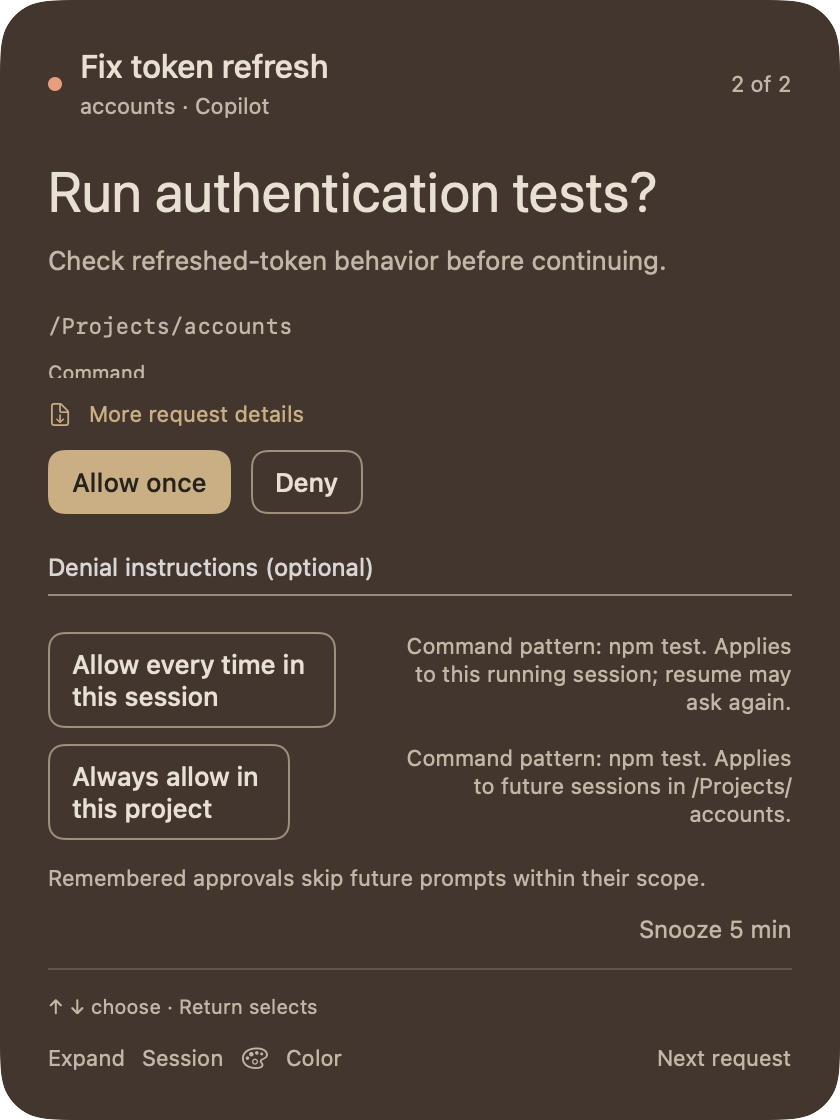
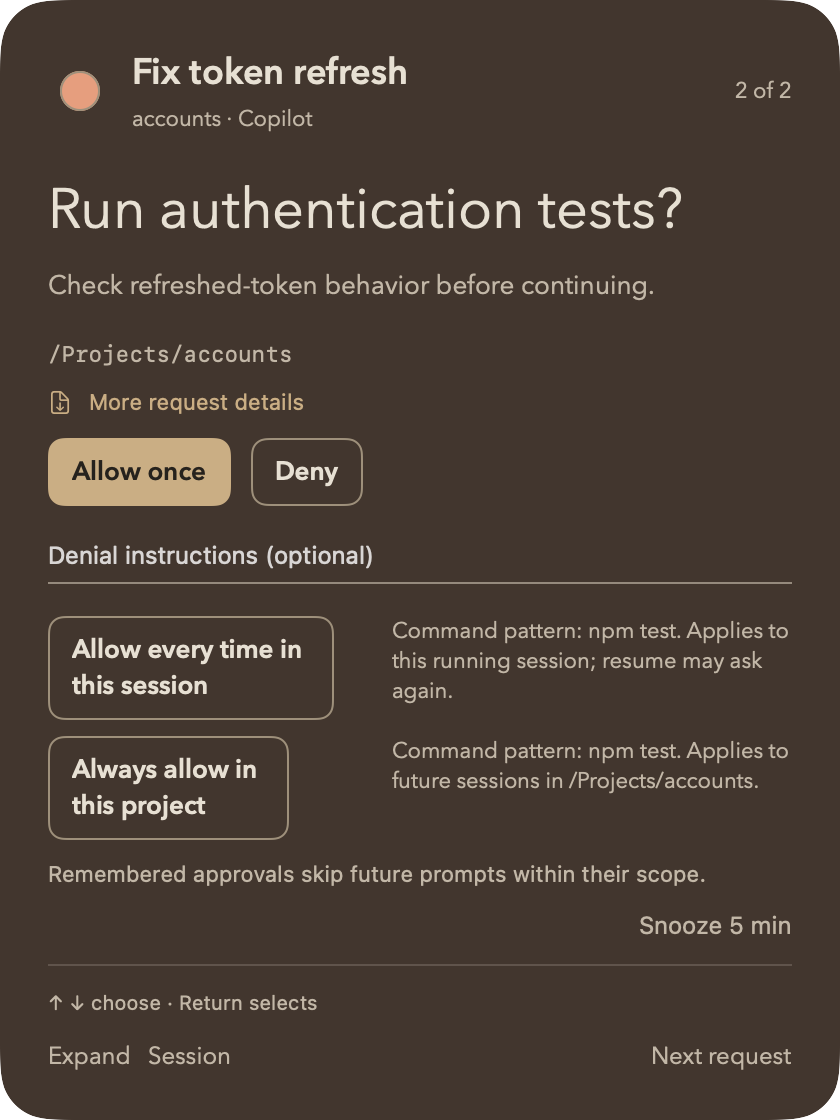
Polish floating notifications and add System Light Dark appearance

diff --git a/Sources/NotifyApp/Views.swift b/Sources/NotifyApp/Views.swift
@@ -304,11 +304,11 @@ struct RequestEditor: View {
     }
     private func heading(_ reasons: [ContextField]) -> some View {
         VStack(alignment: .leading, spacing: 10) {
-            Text(.init(request.title)).font(floating ? .system(size: 28, weight: .regular) : WorkspaceType.text(26))
+            Text(.init(request.title)).font(WorkspaceType.text(floating ? 28 : 26))
                 .fixedSize(horizontal: false, vertical: true).textSelection(.enabled)
                 .frame(maxWidth: .infinity, alignment: .leading)
             ForEach(reasons) { reason in
-                Text(reason.value).font(.system(size: 13)).foregroundStyle(secondary)
+                Text(reason.value).font(WorkspaceType.text(13)).foregroundStyle(secondary)
                     .fixedSize(horizontal: false, vertical: true).textSelection(.enabled)
             }
         }
@@ -336,7 +336,7 @@ struct RequestEditor: View {
         }
     }
     private var approvalActions: some View {
-        VStack(alignment: .leading, spacing: 12) {
+        VStack(alignment: .leading, spacing: floating ? 10 : 12) {
             if request.kind == "permission" {
                 HStack(spacing: 10) {
                     Button("Allow once") { store.reply(session: session.id, request: request, decision: "allow") }
@@ -389,10 +389,10 @@ struct RequestEditor: View {
                 .keyboardShortcut(shortcut(for: .scope(option.id))).id(ReplyChoice.scope(option.id))
                 .frame(maxWidth: floating ? 160 : nil, alignment: .leading)
                 .help(option.label)
-            Text(option.detail).font(.system(size: 11)).foregroundStyle(secondary)
+            Text(option.detail).font(WorkspaceType.text(11)).foregroundStyle(secondary)
                 .fixedSize(horizontal: false, vertical: true).textSelection(.enabled)
-                .multilineTextAlignment(floating ? .trailing : .leading)
-                .frame(maxWidth: .infinity, alignment: floating ? .trailing : .leading)
+                .multilineTextAlignment(.leading)
+                .frame(maxWidth: .infinity, alignment: .leading)
         }.frame(maxWidth: .infinity, alignment: .leading)
     }
     private func questionField(_ question: AgentQuestion) -> some View {
@@ -449,7 +449,7 @@ struct ReplyButtonStyle: ButtonStyle {
     @Environment(\.isEnabled) private var enabled
     func makeBody(configuration: Configuration) -> some View {
         let filled = highlighted ?? primary
-        configuration.label.font(.system(size: 13, weight: .medium))
+        configuration.label.font(WorkspaceType.text(13, strong: true))
             .fixedSize(horizontal: false, vertical: true)
             .padding(.horizontal, 12).padding(.vertical, 8)
             .foregroundStyle(filled ? Palette.highlightInk : Palette.ink)
@@ -462,20 +462,38 @@ struct ReplyButtonStyle: ButtonStyle {
 struct FloatingView: View {
     @ObservedObject var store: Store
     let openCenter: () -> Void
+    @State private var colorHovered = false
     var body: some View {
         VStack(alignment: .leading, spacing: 12) {
             if let id = store.steeringSessionID {
                 FloatingSteeringView(store: store, sessionID: id, openCenter: openCenter)
             } else if let item = store.activeFloatingRequest {
                 let index = store.floatingRequests.firstIndex { $0.request.id == store.replyWorkspace.floatingID } ?? 0
-                HStack(spacing: 9) {
-                    Circle().fill(floatingColor).frame(width: 7, height: 7)
+                HStack(spacing: 10) {
+                    Button {
+                        store.floatingColorPickerSessionID = item.session.id
+                    } label: {
+                        Circle().fill(floatingColor)
+                            .overlay(Circle().strokeBorder(Palette.line, lineWidth: 1))
+                            .frame(width: 20, height: 20).padding(6)
+                            .background(colorHovered ? Palette.raised : .clear, in: Circle())
+                            .contentShape(Circle())
+                    }.buttonStyle(.plain)
+                        .onHover { colorHovered = $0 }
+                        .accessibilityLabel("Change session color")
+                        .help("Change color for \(item.session.name)")
+                        .popover(isPresented: Binding(
+                            get: { store.floatingColorPickerSessionID == item.session.id },
+                            set: { if !$0 { store.floatingColorPickerSessionID = nil } }
+                        )) {
+                            SessionColorChoices(store: store, sessionID: item.session.id)
+                        }
                     VStack(alignment: .leading, spacing: 3) {
-                        Text(item.session.name).font(.system(size: 16, weight: .medium)).lineLimit(2).help(item.session.name)
-                        Text("\(item.session.projectLabel) · \(agentName(item.session.agent))").font(.system(size: 11)).foregroundStyle(Palette.noticeMuted)
+                        Text(item.session.name).font(WorkspaceType.text(18, strong: true)).lineLimit(2).help(item.session.name)
+                        Text("\(item.session.projectLabel) · \(agentName(item.session.agent))").font(WorkspaceType.text(11)).foregroundStyle(Palette.noticeMuted)
                     }
                     Spacer()
-                    Text("\(min(index + 1, store.floatingRequests.count)) of \(store.floatingRequests.count)").font(.system(size: 11)).foregroundStyle(Palette.noticeMuted)
+                    Text("\(min(index + 1, store.floatingRequests.count)) of \(store.floatingRequests.count)").font(WorkspaceType.text(11)).foregroundStyle(Palette.noticeMuted)
                 }
                 .padding(.bottom, 7)
                 if store.automation.enabled.contains(item.session.id) { AutoYesWarning() }
@@ -489,22 +507,11 @@ struct FloatingView: View {
                         Button("Open in iTerm2") { store.openTerminal(item.session) }.disabled(item.session.ownerPID == nil)
                         Button("Steer") { store.showSteering(item.session.id) }.disabled(!item.session.canSteer)
                     }
-                    Button {
-                        store.floatingColorPickerSessionID = item.session.id
-                    } label: {
-                        Label("Color", systemImage: "paintpalette")
-                    }
-                    .popover(isPresented: Binding(
-                        get: { store.floatingColorPickerSessionID == item.session.id },
-                        set: { if !$0 { store.floatingColorPickerSessionID = nil } }
-                    )) {
-                        SessionColorChoices(store: store, sessionID: item.session.id)
-                    }
                     Spacer()
                     if store.floatingRequests.count > 1 {
                         Button("Next request") { store.replyWorkspace.next(requestIDs: store.floatingRequests.map { $0.request.id }) }
                     }
-                }.buttonStyle(.plain).font(.system(size: 11)).foregroundStyle(Palette.noticeMuted)
+                }.buttonStyle(.plain).font(WorkspaceType.text(12)).foregroundStyle(Palette.noticeMuted)
             }
         }.padding(24).background(floatingSurface).clipShape(RoundedRectangle(cornerRadius: 26))
             .foregroundStyle(Palette.ink).tint(Palette.accent)
@@ -527,6 +534,19 @@ struct SettingsView: View {
     var body: some View {
         VStack(alignment: .leading, spacing: 20) {
             HStack { Text("Settings").font(.system(size: 23, weight: .semibold)); Spacer(); Button("Done") { store.settingsVisible = false } }
+            ScrollView {
+            VStack(alignment: .leading, spacing: 20) {
+            VStack(alignment: .leading, spacing: 8) {
+                Text("Appearance").font(WorkspaceType.text(14, strong: true))
+                Picker("Appearance", selection: $store.appearanceMode) {
+                    ForEach(AppearanceMode.allCases, id: \.self) { mode in
+                        Text(mode.rawValue.capitalized).tag(mode)
+                    }
+                }.pickerStyle(.segmented).labelsHidden()
+                Text("Only changes Notify. System follows your Mac's appearance.")
+                    .font(.system(size: 11)).foregroundStyle(Palette.muted)
+            }
+            Divider()
             Toggle("Safe auto-yes", isOn: $store.autoYes)
             Text("Only explicitly identified reads of source or documentation files inside the current project qualify. Hidden paths, sensitive names, symlink escapes, commands, writes, and questions stay manual. Existing agent permission rules still apply.")
                 .font(.system(size: 12)).foregroundStyle(Palette.muted).lineSpacing(4)
@@ -550,6 +570,10 @@ struct SettingsView: View {
             Text("History contains session labels and decisions, not answers. Conversation previews stay on this Mac unless you explicitly request an AI description; that sends a limited excerpt through your Copilot account.")
                 .font(.system(size: 10)).foregroundStyle(Palette.muted)
             Button("Remove disconnected sessions") { store.clearDisconnected() }
-        }.padding(28).frame(width: 550).background(Palette.background).foregroundStyle(Palette.ink).tint(Palette.accent)
+            }.frame(maxWidth: .infinity, alignment: .leading)
+            }.scrollIndicators(.visible)
+        }.padding(28)
+            .frame(width: 550, height: min(680, (NSScreen.main?.visibleFrame.height ?? 760) - 80))
+            .background(Palette.background).foregroundStyle(Palette.ink).tint(Palette.accent)
     }
 }

diff --git a/Sources/NotifyApp/WorkspaceView.swift b/Sources/NotifyApp/WorkspaceView.swift
@@ -33,21 +33,33 @@ struct SessionColorPicker: View {
 struct SessionColorChoices: View {
     @ObservedObject var store: Store
     let sessionID: String
+    @State private var colors: [UInt32]
+    @State private var hoveredColor: UInt32?
     private static let names: [UInt32: String] = [
         0xA6C8FF: "Sky", 0xD8AFF5: "Lilac", 0x70D6C4: "Mint", 0xEAAFBC: "Rose",
         0xC1D58D: "Sage", 0xE5BF8C: "Sand", 0xA9B6EF: "Periwinkle", 0x8ACBDF: "Aqua",
         0xF29A78: "Terracotta", 0xB9B0A3: "Stone"
     ]
+    init(store: Store, sessionID: String) {
+        self.store = store
+        self.sessionID = sessionID
+        _colors = State(initialValue: store.registry.sessions[sessionID].map {
+            store.appearance.suggestedColors(for: $0, among: store.sessions)
+        } ?? [])
+    }
     var body: some View {
         VStack(alignment: .leading, spacing: 14) {
-            Text("Session color").font(WorkspaceType.text(19, strong: true))
+            HStack {
+                Text("Session color").font(WorkspaceType.text(19, strong: true))
+                Spacer()
+                Button("Done") { store.floatingColorPickerSessionID = nil }
+                    .keyboardShortcut(.cancelAction).buttonStyle(.plain)
+                    .font(WorkspaceType.text(12)).foregroundStyle(Palette.accent)
+            }
             if let session = store.registry.sessions[sessionID] {
-                let colors = store.appearance.suggestedColors(for: session, among: store.sessions)
                 let current = store.appearance.color(for: session)
-                Text(session.name).font(.system(size: 12)).lineLimit(2)
-                Text("Least-used colors first, across connected sessions.")
-                    .font(.system(size: 11)).foregroundStyle(Palette.muted)
-                LazyVGrid(columns: Array(repeating: GridItem(.fixed(34), spacing: 12), count: 5), spacing: 12) {
+                Text(session.name).font(WorkspaceType.text(12)).foregroundStyle(Palette.muted).lineLimit(2)
+                LazyVGrid(columns: Array(repeating: GridItem(.fixed(40), spacing: 10), count: 5), spacing: 10) {
                     ForEach(colors, id: \.self) { color in
                         Button { store.setColor(color, for: session) } label: {
                             Circle()
@@ -55,23 +67,33 @@ struct SessionColorChoices: View {
                                             green: Double((color >> 8) & 255) / 255,
                                             blue: Double(color & 255) / 255))
                                 .overlay(Circle().strokeBorder(Palette.line, lineWidth: 1))
-                                .overlay {
-                                    if current == color {
-                                        Image(systemName: "checkmark").font(.system(size: 14, weight: .bold)).foregroundStyle(.black)
-                                    }
-                                }.frame(width: 34, height: 34)
+                                .frame(width: 30, height: 30).padding(5)
+                                .overlay(Circle().strokeBorder(current == color ? Palette.accent :
+                                                                hoveredColor == color ? Palette.line : .clear,
+                                                              lineWidth: current == color ? 2 : 1))
+                                .contentShape(Circle())
                         }.buttonStyle(.plain)
+                            .onHover { hoveredColor = $0 ? color : nil }
                             .accessibilityLabel(Self.names[color] ?? String(format: "#%06X", color))
                             .accessibilityAddTraits(current == color ? .isSelected : [])
                             .help(Self.names[color] ?? String(format: "#%06X", color))
                     }
                 }
-                Button("Next least-used color") {
-                    guard let next = colors.first(where: { $0 != current }) else {
-                        store.error = "No alternative session color is available."
-                        return
+                HStack {
+                    Text(Self.names[current] ?? String(format: "#%06X", current))
+                        .font(WorkspaceType.text(13, strong: true))
+                    Spacer()
+                    Button {
+                        guard let next = store.appearance.suggestedColors(for: session, among: store.sessions).first(where: { $0 != current }) else {
+                            store.error = "No alternative session color is available."
+                            return
+                        }
+                        store.setColor(next, for: session)
+                    } label: {
+                        Label("Next color", systemImage: "arrow.triangle.2.circlepath")
                     }
-                    store.setColor(next, for: session)
+                    .buttonStyle(.plain).font(WorkspaceType.text(12)).foregroundStyle(Palette.accent)
+                    .help("Choose the next least-used color across connected sessions")
                 }
                 if let error = store.error {
                     Text(error).font(.system(size: 11)).foregroundStyle(Palette.error)
@@ -80,14 +102,20 @@ struct SessionColorChoices: View {
                 Divider()
                 HStack {
                     Button("Reset automatic") { store.setColor(nil, for: session) }
+                        .buttonStyle(.plain).font(WorkspaceType.text(12)).foregroundStyle(Palette.accent)
                     Spacer()
-                    Button("Done") { store.floatingColorPickerSessionID = nil }.keyboardShortcut(.cancelAction)
+                    Text("Least-used first").font(WorkspaceType.text(11)).foregroundStyle(Palette.muted)
                 }
             } else {
                 Text("This session is no longer available.").foregroundStyle(Palette.muted)
             }
         }.padding(20).frame(width: 280).background(Palette.surface)
             .foregroundStyle(Palette.ink).tint(Palette.accent)
+            .onAppear {
+                if let session = store.registry.sessions[sessionID] {
+                    colors = store.appearance.suggestedColors(for: session, among: store.sessions)
+                }
+            }
     }
 }
 

diff --git a/Tests/UI/main.swift b/Tests/UI/main.swift
@@ -16,6 +16,7 @@ import Vision
         try FileManager.default.createDirectory(at: fixtureRoot, withIntermediateDirectories: true, attributes: [.posixPermissions: 0o700])
         let suite = "notify-ui-" + UUID().uuidString
         let defaults = UserDefaults(suiteName: suite)!
+        defaults.set("dark", forKey: "appearanceMode")
         let store = Store(directory: fixtureRoot, defaults: defaults)
         precondition(reorderedSessionIDs(["a", "b", "c"], moving: "a", over: "c") == ["b", "c", "a"],
                      "Dragging down must place a session at the target position")
@@ -460,6 +461,7 @@ import Vision
             visual.setColor(0xF29A78, for: visual.selected!)
             func capture<V: View>(_ view: V, width: CGFloat, height: CGFloat, name: String,
                                   appearance: NSAppearance.Name = .aqua) throws {
+                if name.hasPrefix("settings") { visual.appearanceMode = appearance == .darkAqua ? .dark : .light }
                 let capture = NSHostingView(rootView: view)
                 capture.sizingOptions = []
                 window.appearance = NSAppearance(named: appearance)
@@ -662,6 +664,7 @@ import Vision
         }
         let appDelegate = AppDelegate(store: store, backgroundLaunch: true)
         appDelegate.applicationDidFinishLaunching(Notification(name: NSApplication.didFinishLaunchingNotification))
+        precondition(NSApp.appearance?.name == .darkAqua, "A saved Dark preference must apply before Notify presents its windows")
         let center = NSApp.windows.first { $0.title == "Notify" }!
         precondition(!center.isVisible, "Launcher startup must not open the control center")
         defer { appDelegate.applicationWillTerminate(Notification(name: NSApplication.willTerminateNotification)) }
@@ -830,9 +833,9 @@ import Vision
         precondition(store.centerVisible == (center.isVisible && center.occlusionState.contains(.visible)),
                      "Reopening must synchronize the illustration clock with the window's current occlusion state")
         precondition(center.appearance == nil && replyPanel.appearance == nil,
-                     "Both app windows must inherit macOS appearance instead of forcing light mode")
-        for appearance: NSAppearance.Name in [.darkAqua, .aqua] {
-            NSApp.appearance = NSAppearance(named: appearance)
+                     "Both windows must inherit Notify's app-wide appearance instead of pinning their own theme")
+        for (mode, appearance): (AppearanceMode, NSAppearance.Name) in [(.dark, .darkAqua), (.light, .aqua)] {
+            store.appearanceMode = mode
             for _ in 0..<10 {
                 center.contentView?.layoutSubtreeIfNeeded()
                 RunLoop.current.run(until: Date().addingTimeInterval(0.025))
@@ -840,7 +843,10 @@ import Vision
             }
             precondition(center.effectiveAppearance.bestMatch(from: [.aqua, .darkAqua]) == appearance &&
                          replyPanel.effectiveAppearance.bestMatch(from: [.aqua, .darkAqua]) == appearance,
-                         "Already-open windows must follow appearance changes without relaunching")
+                         "Already-open windows must follow the user's Notify appearance choice without relaunching")
+            let reopened = Store(directory: fixtureRoot, defaults: defaults)
+            precondition(reopened.appearanceMode == mode, "The user's appearance choice must survive reopening")
+            reopened.stop()
             let view = center.contentView!
             let bitmap = view.bitmapImageRepForCachingDisplay(in: view.bounds)!
             view.cacheDisplay(in: view.bounds, to: bitmap)
@@ -848,6 +854,15 @@ import Vision
             precondition(appearance == .darkAqua ? luminance(background) < 0.15 : luminance(background) > 0.6,
                          "Existing SwiftUI content must repaint after a system appearance change")
         }
+        store.appearanceMode = .system
+        precondition(NSApp.appearance == nil, "System must remove only Notify's appearance override")
+        for _ in 0..<10 {
+            RunLoop.current.run(until: Date().addingTimeInterval(0.025))
+            pumpNativeEvents()
+        }
+        precondition(center.effectiveAppearance.bestMatch(from: [.aqua, .darkAqua]) ==
+                     NSApp.effectiveAppearance.bestMatch(from: [.aqua, .darkAqua]),
+                     "Returning to System must follow the current Mac appearance")
         for ownedWindow in NSApp.windows { ownedWindow.orderOut(nil) }
         print("Native notification color, Dock badge and reopen checks passed")
         if CommandLine.arguments.contains("--live-discovery") {

diff --git a/Sources/NotifyApp/Store.swift b/Sources/NotifyApp/Store.swift
@@ -16,6 +16,10 @@ struct AnswerFocus: Equatable {
     let questionID: String
 }
 
+enum AppearanceMode: String, CaseIterable {
+    case system, light, dark
+}
+
 final class Store: ObservableObject {
     @Published private(set) var registry = SessionRegistry()
     @Published var selectedID: String?
@@ -31,6 +35,9 @@ final class Store: ObservableObject {
     private var announcedIDs: [String] = []
     private var replyAttempts: [String: UUID] = [:]
     @Published var settingsVisible = false
+    @Published var appearanceMode: AppearanceMode {
+        didSet { defaults.set(appearanceMode.rawValue, forKey: "appearanceMode") }
+    }
     @Published var centerVisible = false
     @Published var floatingColorPickerSessionID: String? {
         didSet { onAttentionChange?() }
@@ -73,6 +80,8 @@ final class Store: ObservableObject {
 
     init(directory: URL? = nil, defaults: UserDefaults = .standard) {
         self.defaults = defaults
+        let savedAppearance = defaults.string(forKey: "appearanceMode")
+        appearanceMode = savedAppearance.flatMap(AppearanceMode.init(rawValue:)) ?? .system
         sessionOrder = defaults.stringArray(forKey: "sessionOrder") ?? []
         defaults.register(defaults: ["autoYes": true, "floatingEnabled": true, "playSound": false])
         autoYes = defaults.bool(forKey: "autoYes")
@@ -80,6 +89,9 @@ final class Store: ObservableObject {
         playSound = defaults.bool(forKey: "playSound")
         self.directory = directory ?? FileManager.default.homeDirectoryForCurrentUser.appendingPathComponent("Library/Application Support/Notify")
         server = LocalServer(directory: self.directory)
+        if let savedAppearance, AppearanceMode(rawValue: savedAppearance) == nil {
+            error = "The saved appearance setting is not recognized. Notify is following the system; choose an appearance in Settings to reset it."
+        }
         do { appearance = try SessionAppearance.load(from: self.directory) }
         catch { self.error = "Session colors could not be loaded: \(error.localizedDescription)" }
         do { descriptions = try DescriptionCache.load(from: self.directory) }

diff --git a/Sources/NotifyApp/AppDelegate.swift b/Sources/NotifyApp/AppDelegate.swift
@@ -121,6 +121,13 @@ final class AppDelegate: NSObject, NSApplicationDelegate, NSWindowDelegate {
     }
 
     func applicationDidFinishLaunching(_ notification: Notification) {
+        store.$appearanceMode.sink { mode in
+            switch mode {
+            case .system: NSApp.appearance = nil
+            case .light: NSApp.appearance = NSAppearance(named: .aqua)
+            case .dark: NSApp.appearance = NSAppearance(named: .darkAqua)
+            }
+        }.store(in: &observations)
         let mainMenu = NSMenu()
         let appItem = NSMenuItem()
         let appMenu = NSMenu()

diff --git a/docs/guide.md b/docs/guide.md
@@ -10,7 +10,7 @@ Notify appears in the Dock and Cmd-Tab. Agent launchers start it in the backgrou
 
 ## Session workspace and useful notifications
 
-Notify follows macOS appearance automatically, including changes while it's running: muted beige and taupe in light mode, warm charcoal and sand in dark mode. Each chat has a stable color shared by its session row and floating notification. Change it using **Session color** in the session's **Settings** tab; **Reset** restores the automatic accent. Notifications use a subtle session tint with contrasting text in both modes. Colors are stored locally and follow the saved chat when it reconnects or resumes. Warning/error colors remain separate.
+In Notify's main **Settings**, choose **Appearance: System, Light, or Dark**. System is the default and follows macOS; Light and Dark apply only to Notify, update open windows immediately, and are remembered after restart. Light uses muted beige and taupe; dark uses warm charcoal and sand. Each chat has a stable color shared by its session row and floating notification. Change it using **Session color** in the session's **Settings** tab; **Reset** restores the automatic accent. Notifications use a subtle session tint with contrasting text in both modes. Colors are stored locally and follow the saved chat when it reconnects or resumes. Warning/error colors remain separate.
 
 The illustrated agent reflects observed state: working, thinking when reasoning is reported, needing your answer, or at rest. **Response finished** means a main reply completed and the agent became idle, not that every task or test succeeded. Motion pauses when the control center is hidden and respects macOS Reduce Motion. **Controls** puts Queue, Interrupt and Stop beside the activity feed; unsupported connections explain why these controls are unavailable.
 
@@ -18,7 +18,7 @@ Drag session rows to reorder them within their current group. The order is remem
 
 Floating cards show the chat title and project/agent above the full request. **Session > Open session** selects that exact chat. **Expand** enlarges the panel in place. Sending a reply keeps the card visible until acknowledgment; delivery failures appear inline, not in a blocking control-center popup. Replayed pending prompts do not repeatedly notify, and new arrivals preserve your selected question and draft.
 
-Use **Color** on a floating notification to choose from ten swatches or cycle to the next least-used color. Usage counts other connected chats once, even if they have multiple records. The same saved color updates the control center immediately. **Reset automatic** restores the original stable color. Approval shortcuts pause while this picker is open. **More request details** jumps to supplied command/path evidence on shorter panels.
+Click the **colored circle beside the session title** on a floating notification to choose from ten swatches. **Next color** cycles to the next least-used color; swatches stay in place while choosing. Usage counts other connected chats once, even if they have multiple records. The same saved color updates the control center immediately. **Reset automatic** restores the original stable color. Approval shortcuts pause while this picker is open. **More request details** jumps to supplied command/path evidence on shorter panels.
 
 The updated original-Copilot extension supplies the **Live activity** timeline: user/assistant messages, tool commands/results and provider-published reasoning where available. Subagent events are labeled separately. Tool snippets are visible immediately; expand entries for full details. Use **Follow live** or **Latest activity** to catch up. Disconnected sessions show **Recent activity** instead. Older connections retain their existing text preview until you explicitly reload extensions in that terminal.
 

diff --git a/README.md b/README.md
@@ -17,7 +17,7 @@ Answer Copilot and Claude Code requests from a small floating panel, without swi
 - **Keep sessions straight.** Drag to reorder, clear connection groups, and shared colors you can change right from a notification.
 - **Watch and steer.** Live activity beside your controls, with a little agent that works, waits, and rests.
 - **Keep your terminal.** Attach to an existing Copilot session without replacing it.
-- **Easy on the eyes.** Muted beige by day, warm charcoal by night. Follows your Mac's appearance.
+- **Easy on the eyes.** Muted beige or warm charcoal. Follow your Mac, or choose Light/Dark in Settings.
 
 <p align="center">
   <picture>
